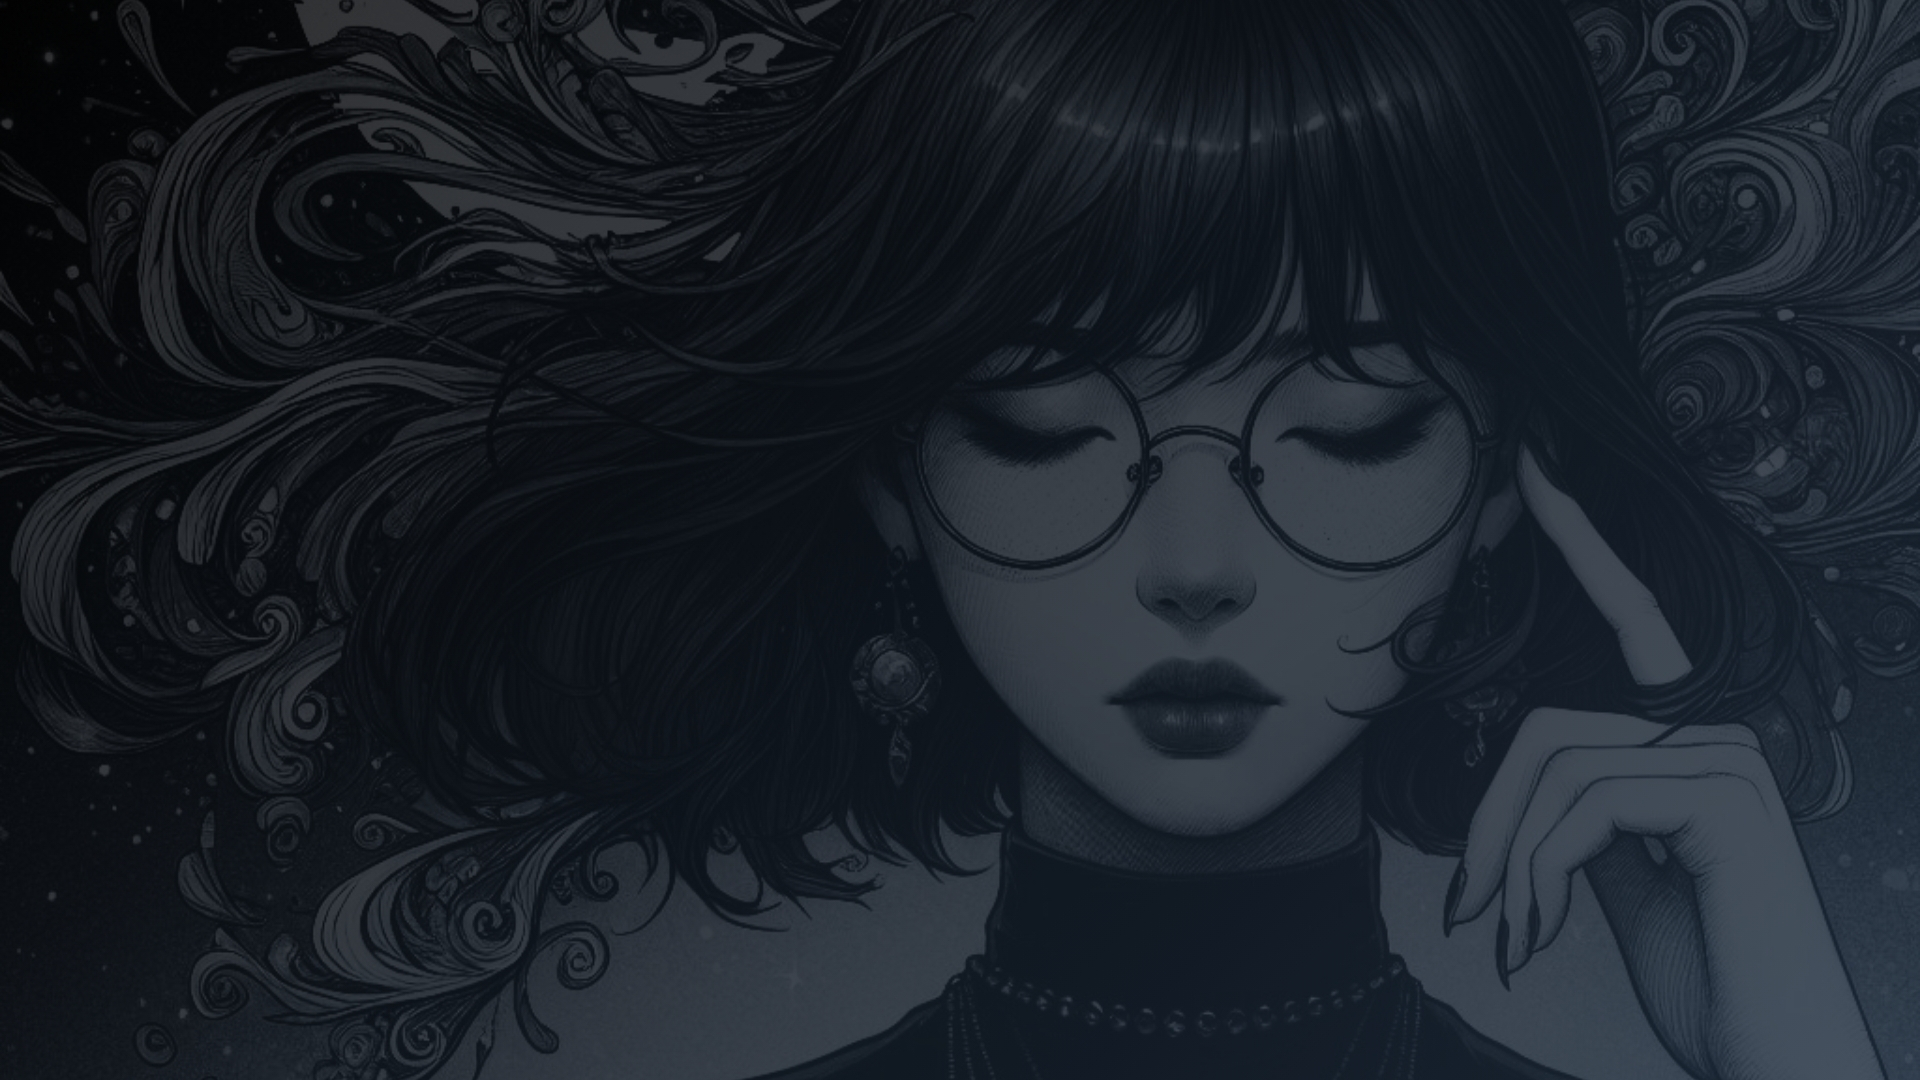
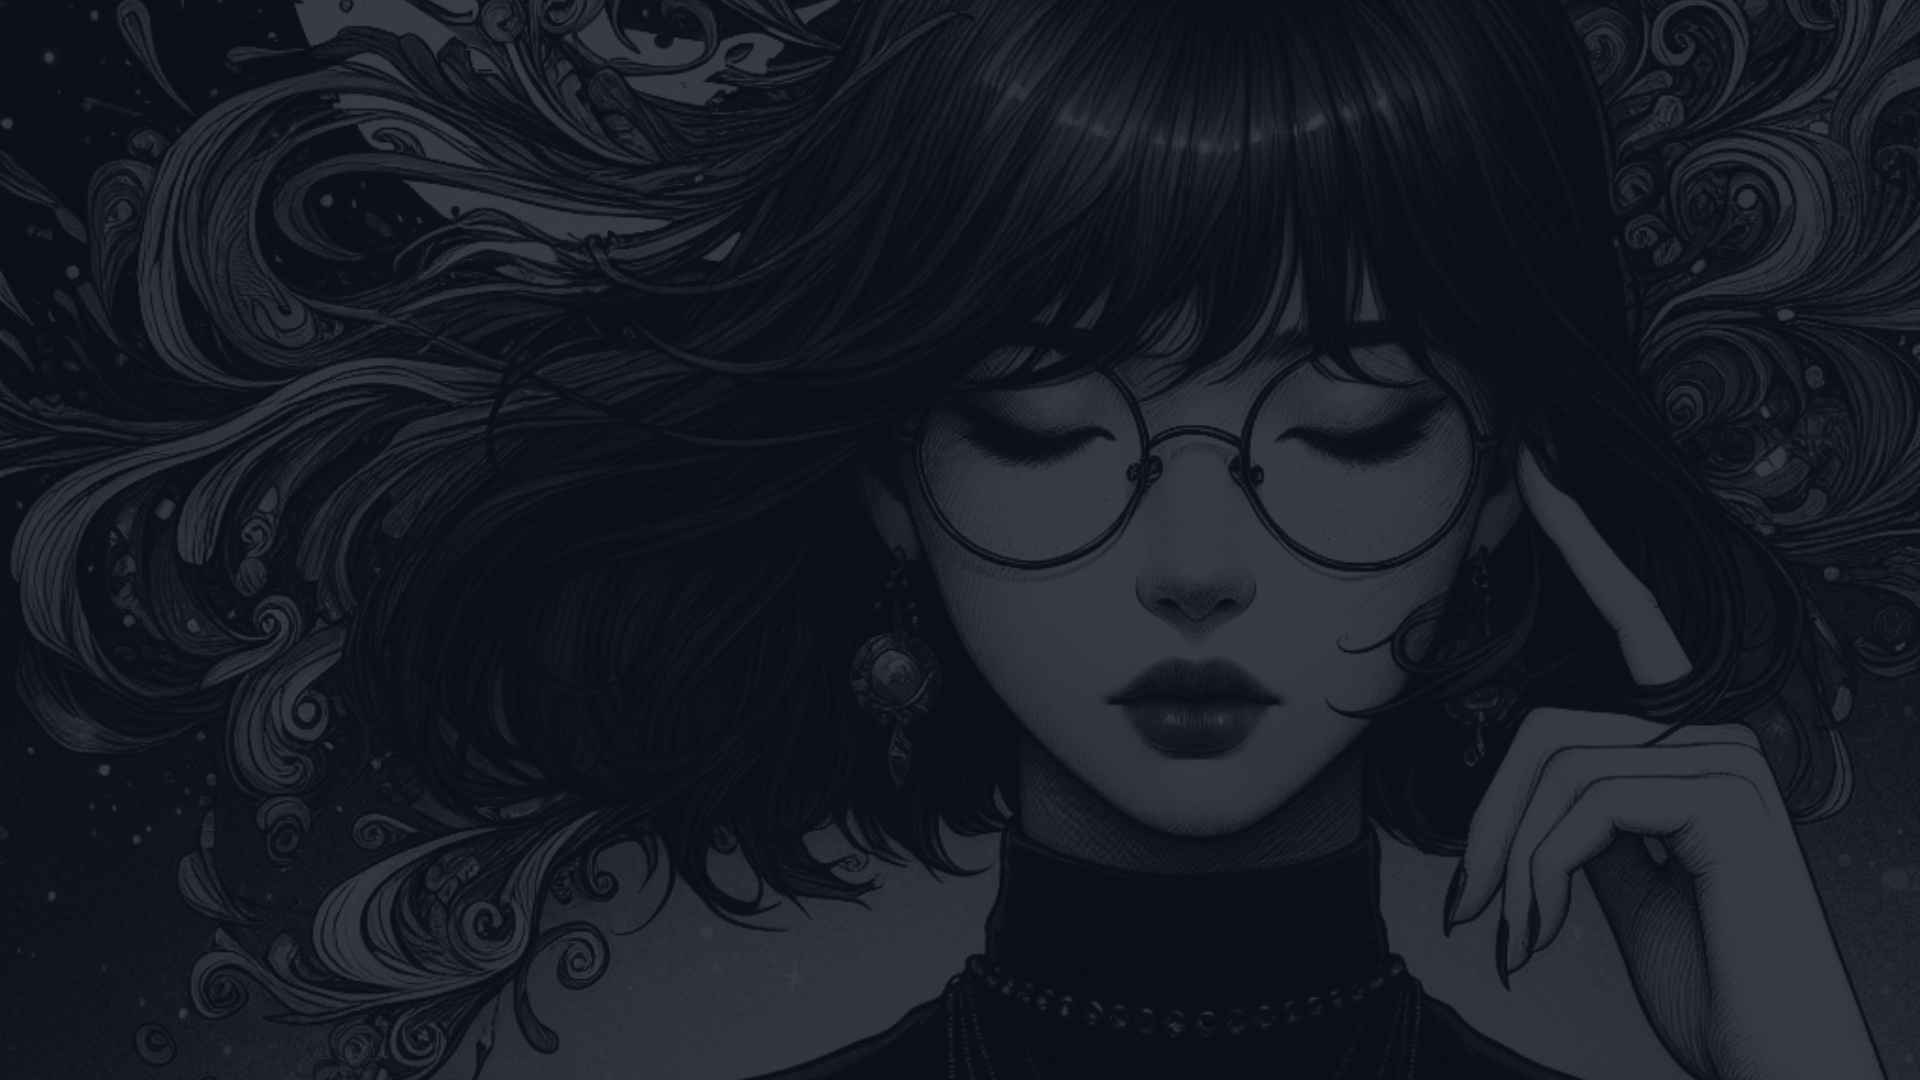
Done troubleshooting Hire and Contact page's CSS. Next: Portfolio (public). For resolving Feat: i #6

Changed region(s): [[0.8125, 0.7028, 1.0, 1.0]]

diff --git a/assets/css/main.styles.css b/assets/css/main.styles.css
@@ -14,11 +14,11 @@
 
 /* Global Colors - The following color variables are used throughout the website. Updating them here will change the color scheme of the entire website */
 :root { 
-  --background-color: #111924; /* Background color for the entire website, including individual sections */
+  --background-color: #0c1018; /* Background color for the entire website, including individual sections */
   --default-color: #fafafa; /* Default color used for the majority of the text content across the entire website */
   --heading-color: #ffffff; /* Color for headings, subheadings and title throughout the website */
   --accent-color: #70c3ff; /* Accent color that represents your brand on the website. It's used for buttons, links, and other elements that need to stand out */
-  --surface-color: #1a2029; /* The surface color is used as a background of boxed elements within sections, such as cards, icon boxes, or other elements that require a visual separation from the global background. */
+  --surface-color: #202932; /* The surface color is used as a background of boxed elements within sections, such as cards, icon boxes, or other elements that require a visual separation from the global background. */
   --contrast-color: #1D2C3D; /* Contrast color for text, ensuring readability against backgrounds of accent, heading, or default colors. */
 }
 
@@ -26,8 +26,8 @@
 :root {
   --nav-color: #fafafa;  /* The default color of the main navmenu links */
   --nav-hover-color: #70c3ff; /* Applied to main navmenu links when they are hovered over or active */
-  --nav-mobile-background-color: #1a2029; /* Used as the background color for mobile navigation menu */
-  --nav-dropdown-background-color: #1a2029; /* Used as the background color for dropdown items that appear when hovering over primary navigation items */
+  --nav-mobile-background-color: #202932; /* Used as the background color for mobile navigation menu */
+  --nav-dropdown-background-color: #202932; /* Used as the background color for dropdown items that appear when hovering over primary navigation items */
   --nav-dropdown-color: #fafafa; /* Used for navigation links of the dropdown items in the navigation menu. */
   --nav-dropdown-hover-color: #70c3ff; /* Similar to --nav-hover-color, this color is applied to dropdown navigation links when they are hovered over. */
 }
@@ -41,7 +41,7 @@
 
 .dark-background {
   /* --background-color: rgba(15, 15, 15, 0.975); */
-  --background-color: #111924 !important;
+  --background-color: #0c1018 !important;
   --default-color: #ffffff;
   --heading-color: #ffffff;
   --surface-color: #292929f9;
@@ -1562,7 +1562,7 @@ section,
 }
 
 .service-details .social-icons {
-   display: inline-block;
+   display: flex; 
    padding: 0;
    margin: 0 0 20px 0;
  }
